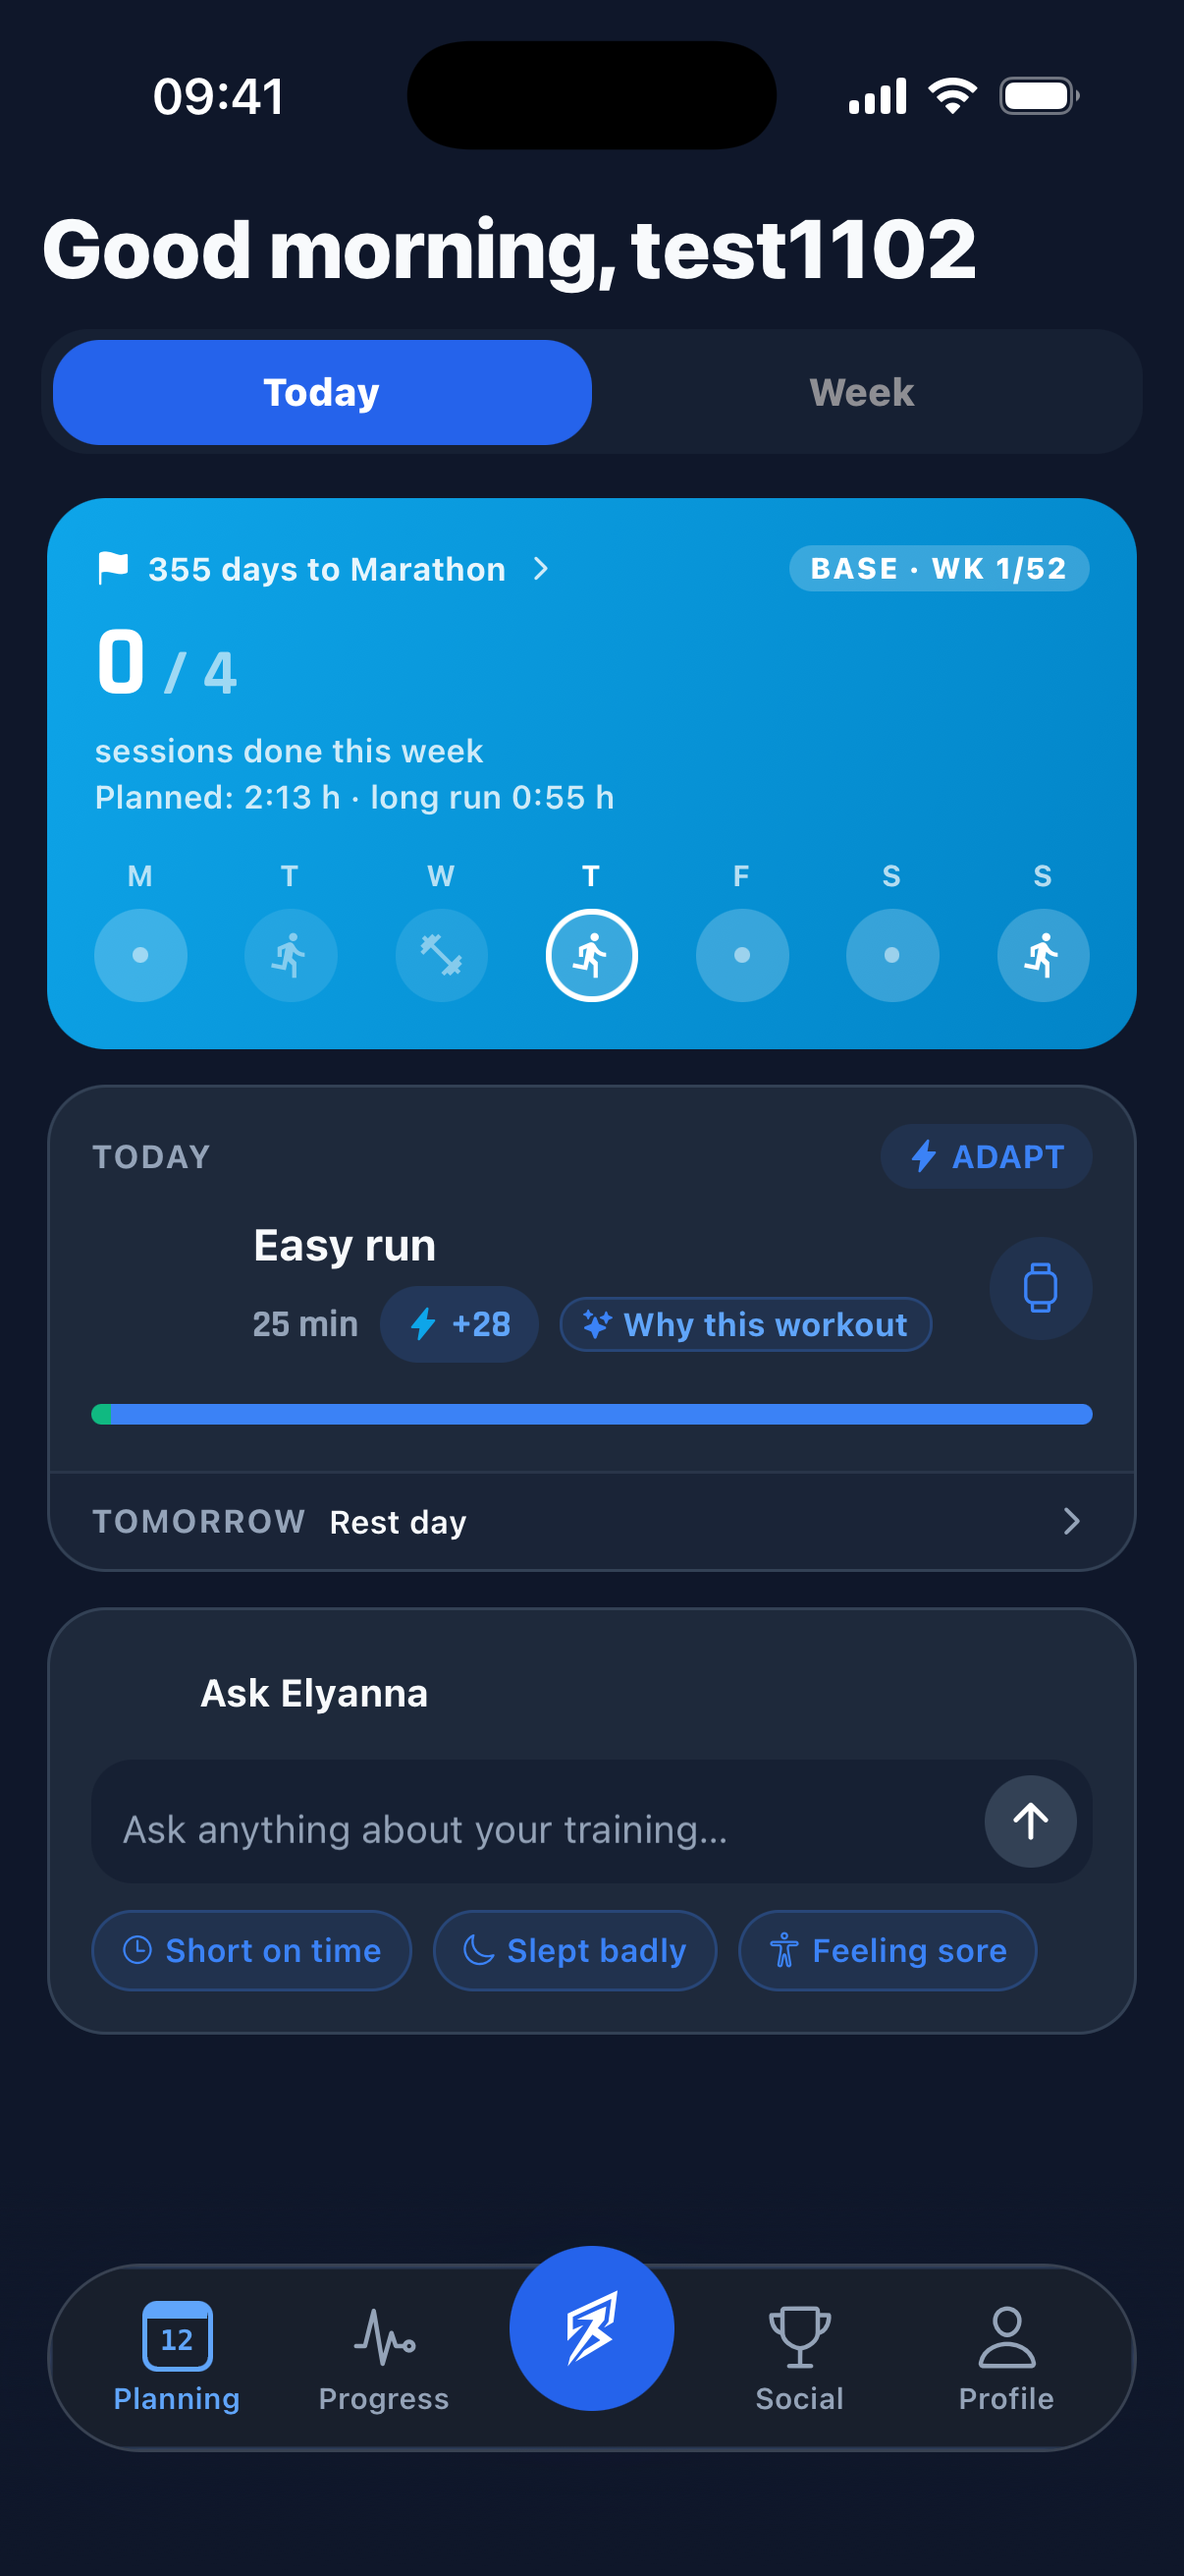
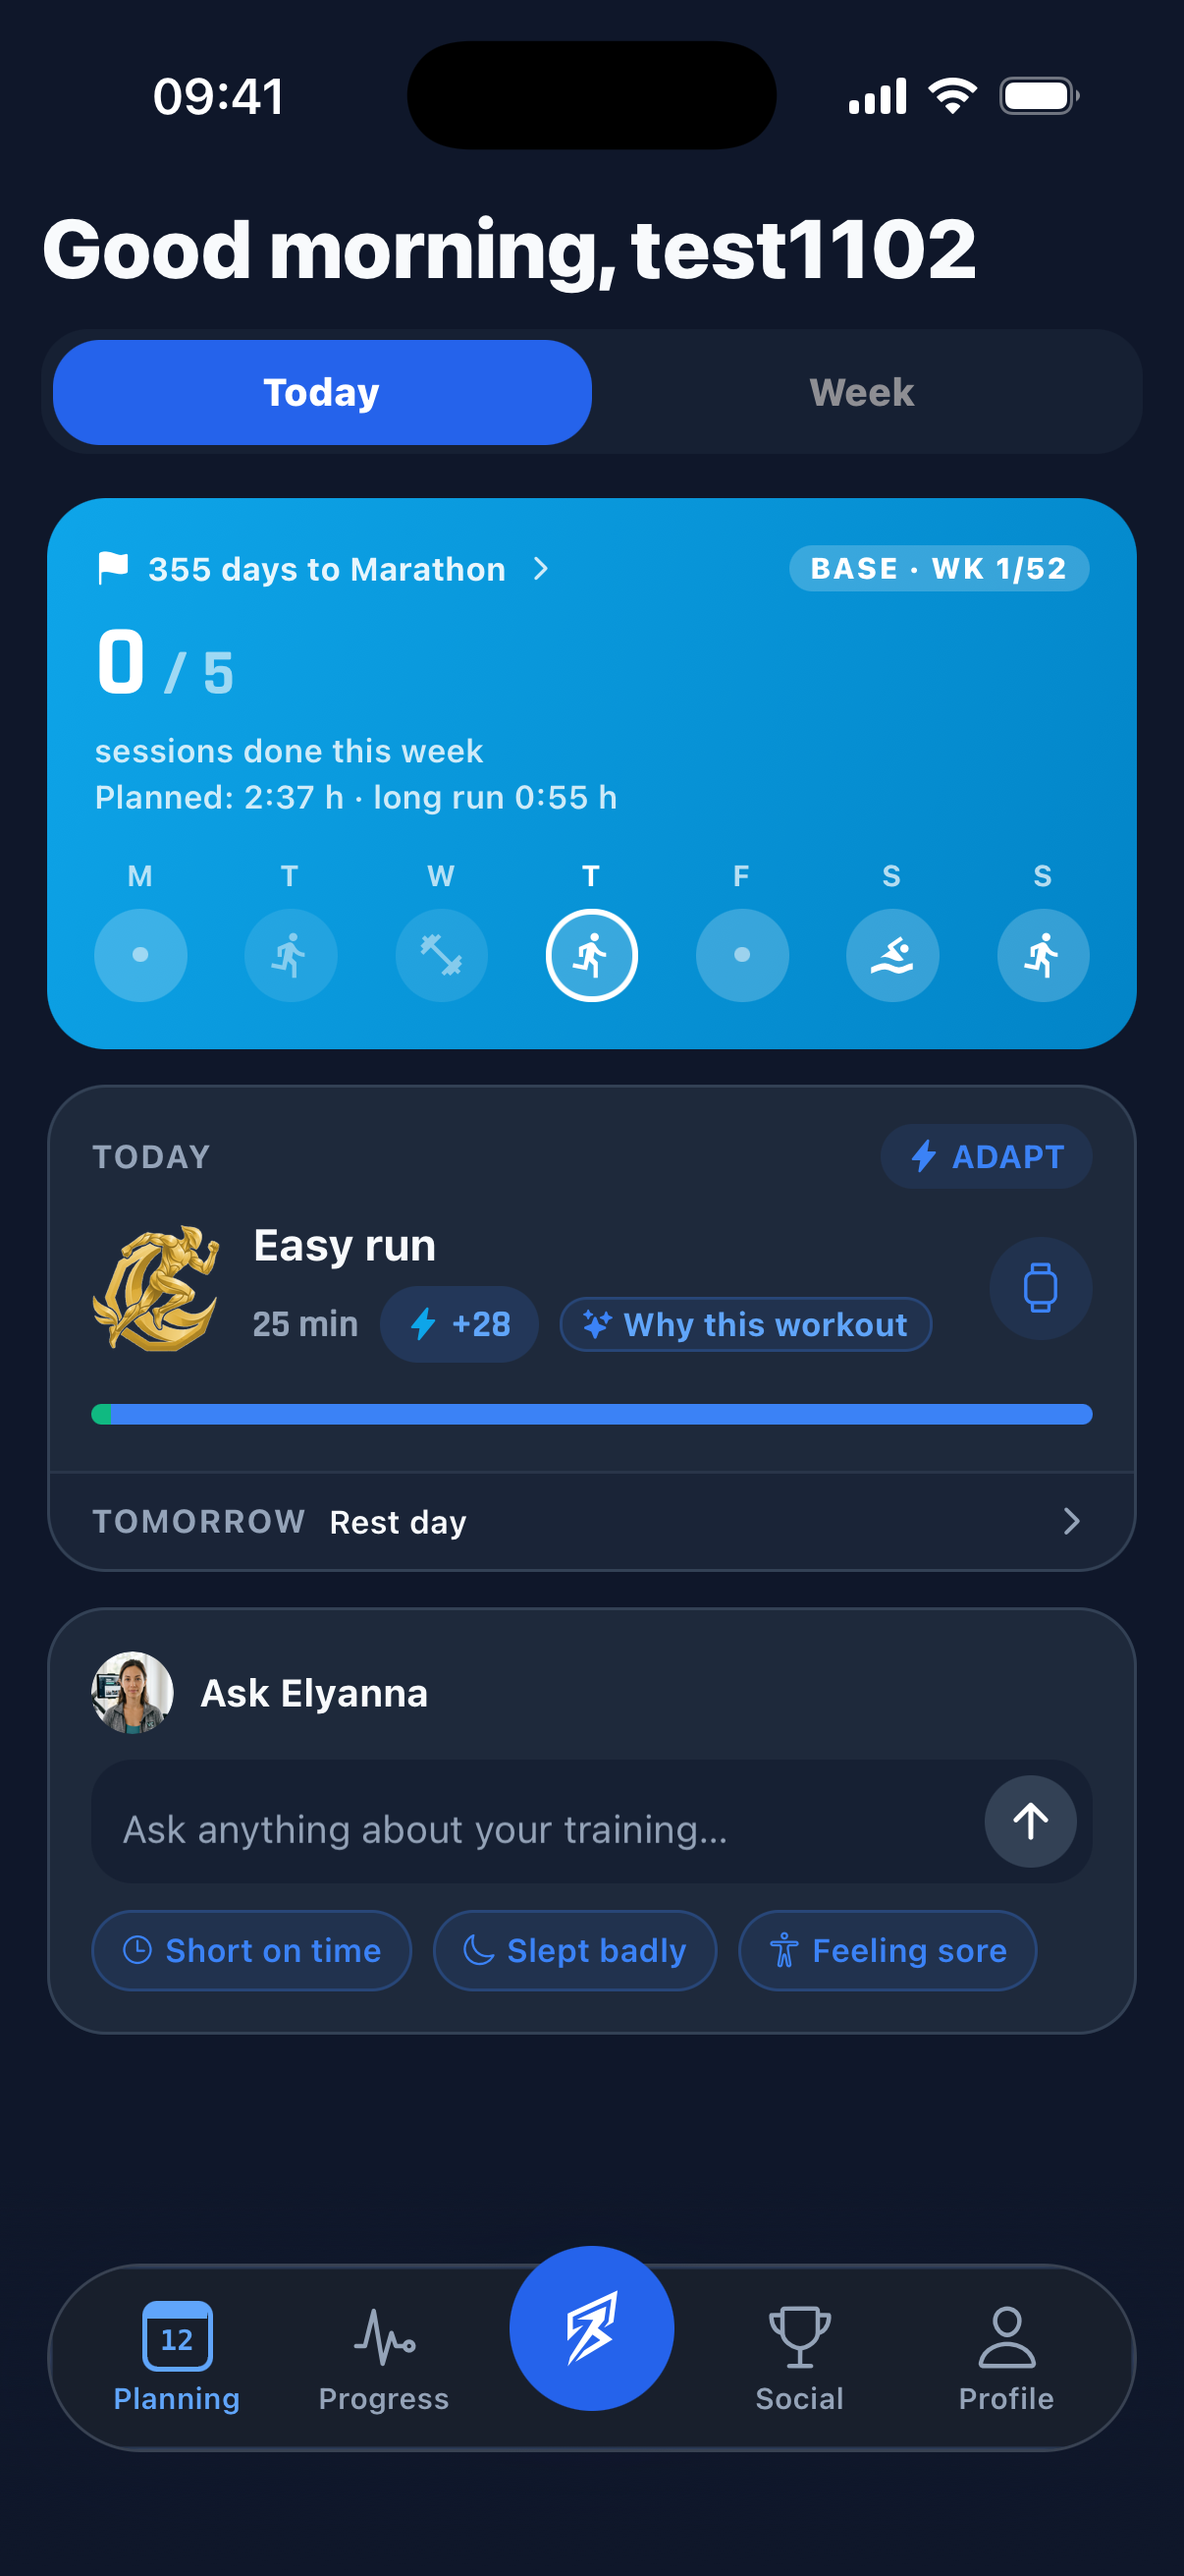
last fixes

diff --git a/docs/store-screenshots/styled/frames.html b/docs/store-screenshots/styled/frames.html
@@ -1,0 +1,168 @@
+<!doctype html>
+<html>
+<head>
+<meta charset="utf-8">
+<link href="https://fonts.googleapis.com/css2?family=Plus+Jakarta+Sans:wght@500;700;800&family=Rajdhani:wght@600;700&display=block" rel="stylesheet">
+<style>
+  :root {
+    --ink: #050816;
+    --navy: #0B1330;
+    --blue: #2563EB;
+    --sky: #0EA5E9;
+    --cyan: #38BDF8;
+    --text: #F5F7FF;
+  }
+  * { box-sizing: border-box; margin: 0; padding: 0; }
+  html, body { width: 1206px; height: 2622px; overflow: hidden; background: var(--ink); }
+  .frame {
+    position: relative; width: 1206px; height: 2622px; overflow: hidden;
+    font-family: 'Plus Jakarta Sans', sans-serif; color: var(--text);
+    background:
+      radial-gradient(1200px 900px at 50% 118%, rgba(37,99,235,.95) 0%, rgba(37,99,235,.35) 38%, rgba(5,8,22,0) 70%),
+      radial-gradient(700px 600px at 92% 40%, rgba(14,165,233,.22) 0%, rgba(5,8,22,0) 70%),
+      radial-gradient(800px 700px at -5% 22%, rgba(56,189,248,.14) 0%, rgba(5,8,22,0) 70%),
+      linear-gradient(180deg, #050816 0%, #08102A 55%, #0B1A4A 100%);
+  }
+  /* oversized brand mark, very faint, for texture */
+  .mark {
+    position: absolute; width: 1500px; height: 2275px; left: 380px; top: 260px;
+    background: url('../../../website/rooka-mark-white.svg') no-repeat center / contain;
+    opacity: .035; transform: rotate(-8deg);
+  }
+  /* speed streaks */
+  .streak { position: absolute; height: 6px; border-radius: 6px;
+    background: linear-gradient(90deg, rgba(56,189,248,0), rgba(56,189,248,.55));
+    transform: rotate(-24deg); }
+
+  .head { position: absolute; left: 0; right: 0; top: 150px; text-align: center; padding: 0 70px; }
+  .kicker {
+    font-family: 'Rajdhani', sans-serif; font-weight: 700; font-size: 46px; letter-spacing: .22em;
+    text-transform: uppercase; color: var(--cyan); margin-bottom: 26px;
+  }
+  h1 {
+    font-weight: 800; font-size: 118px; line-height: 1.02; letter-spacing: -0.035em;
+  }
+  h1 em {
+    font-style: normal;
+    background: linear-gradient(95deg, #7DD3FC 0%, #38BDF8 45%, #3B82F6 100%);
+    -webkit-background-clip: text; background-clip: text; color: transparent;
+  }
+
+  .phone {
+    position: absolute; left: 50%; top: 640px; width: 900px; height: 1957px;
+    transform: translateX(-50%);
+    border-radius: 128px; padding: 16px;
+    background: linear-gradient(160deg, #3A4256 0%, #12151F 30%, #0A0C12 70%, #2B3244 100%);
+    box-shadow:
+      0 0 0 3px rgba(255,255,255,.06),
+      0 60px 140px rgba(0,0,0,.65),
+      0 0 180px rgba(37,99,235,.35);
+  }
+  .phone .screen {
+    width: 100%; height: 100%; border-radius: 112px; overflow: hidden; position: relative;
+    background-size: cover; background-position: top center;
+  }
+  .cover { position: absolute; background: #0F172A; }
+  .cover span { font-weight: 800; color: #F8FAFC; letter-spacing: -0.02em; white-space: nowrap; }
+
+  /* zoomed-in slice of the UI floating over the phone */
+  .callout {
+    position: absolute; border-radius: 44px; overflow: hidden;
+    background-repeat: no-repeat;
+    box-shadow:
+      0 0 0 2px rgba(125,211,252,.45),
+      0 40px 90px rgba(0,0,0,.6),
+      0 0 120px rgba(56,189,248,.35);
+  }
+</style>
+</head>
+<body>
+<div class="frame" id="frame"></div>
+
+<script>
+// Each crop is in raw-screenshot pixels (1206 x 2622).
+const FRAMES = {
+  1: {
+    kicker: 'AI personal coach',
+    title: 'A coach who<br><em>plans with you</em>',
+    shot: 'coach.png',
+    callout: { crop: [96, 1777, 851, 205], scale: 1.12, x: 150, y: 1960, rot: -3 },
+  },
+  2: {
+    kicker: 'Smart planning',
+    title: 'Built around<br><em>your real week</em>',
+    shot: 'week.png',
+    callout: { crop: [44, 612, 1121, 262], scale: 0.98, x: 52, y: 1560, rot: 2.5 },
+  },
+  3: {
+    kicker: 'Adapts daily',
+    title: 'Life happens.<br><em>Your plan adapts.</em>',
+    shot: 'today.png',
+    greeting: { bg: '#0F172A', color: '#F8FAFC' },
+    callout: { crop: [50, 1640, 1107, 423], scale: 0.92, x: 92, y: 1990, rot: -2.5 },
+  },
+  4: {
+    kicker: 'Explained',
+    title: 'Know <em>why</em> every<br>workout matters',
+    shot: 'why.png',
+    greeting: { bg: '#090E19', color: '#959697' },
+    callout: { crop: [87, 1739, 1029, 539], scale: 0.94, x: 120, y: 1940, rot: 2 },
+  },
+  5: {
+    kicker: 'Garmin & more',
+    title: 'Straight to<br><em>your watch</em>',
+    shot: 'detail-run.png',
+    callout: { shot: 'week.png', crop: [96, 1841, 361, 102], scale: 1.9, x: 260, y: 2190, rot: -3 },
+  },
+};
+
+const n = Number(new URLSearchParams(location.search).get('f') || 1);
+const f = FRAMES[n];
+const raw = '../dark-raw/';
+const el = document.getElementById('frame');
+
+const streaks = [
+  [-120, 560, 520, .9], [820, 300, 460, .6], [930, 1180, 380, .5], [-60, 1460, 340, .45],
+];
+
+el.innerHTML = `
+  <div class="mark"></div>
+  ${streaks.map(([x, y, w, o]) => `<div class="streak" style="left:${x}px;top:${y}px;width:${w}px;opacity:${o}"></div>`).join('')}
+  <div class="head">
+    <div class="kicker">${f.kicker}</div>
+    <h1>${f.title}</h1>
+  </div>
+  <div class="phone"><div class="screen" style="background-image:url('${raw}${f.shot}')"></div></div>
+`;
+
+// Phone screen is 868px wide; raw is 1206px -> scale
+const screenScale = 868 / 1206;
+const screen = el.querySelector('.screen');
+
+if (f.greeting) {
+  // Replace the test account's username in the greeting.
+  const c = document.createElement('div');
+  c.className = 'cover';
+  const s = screenScale;
+  Object.assign(c.style, { left: 30 * s + 'px', top: 165 * s + 'px', width: 1150 * s + 'px', height: 150 * s + 'px',
+    display: 'flex', alignItems: 'center', paddingLeft: 14 * s + 'px', background: f.greeting.bg });
+  c.innerHTML = `<span style="font-size:${84 * s}px;color:${f.greeting.color}">Good morning, Leon</span>`;
+  screen.appendChild(c);
+}
+
+const co = f.callout;
+const [cx, cy, cw, ch] = co.crop;
+const box = document.createElement('div');
+box.className = 'callout';
+Object.assign(box.style, {
+  left: co.x + 'px', top: co.y + 'px',
+  width: cw * co.scale + 'px', height: ch * co.scale + 'px',
+  backgroundImage: `url('${raw}${co.shot || f.shot}')`,
+  backgroundSize: `${1206 * co.scale}px ${2622 * co.scale}px`,
+  backgroundPosition: `${-cx * co.scale}px ${-cy * co.scale}px`,
+  transform: `rotate(${co.rot}deg)`,
+});
+el.appendChild(box);
+</script>
+</body>
+</html>

diff --git a/src/app/(tabs)/coach.tsx b/src/app/(tabs)/coach.tsx
@@ -936,7 +936,7 @@ export default function CoachScreen() {
   const dateBadgeStr = now.toLocaleDateString(getLocaleTag(language), { weekday: 'short', month: 'short', day: 'numeric' });
 
   return (
-    <SafeAreaView className="flex-1 dark:bg-dark-canvas bg-neutral-50" edges={['top']}>
+    <SafeAreaView className="flex-1 dark:bg-theme-bg bg-neutral-50" edges={['top']}>
       <Reanimated.View style={[{ flex: 1 }, keyboardRoomStyle]}>
         {/* Click-to-Expand Image Lightbox Modal */}
         <Modal
